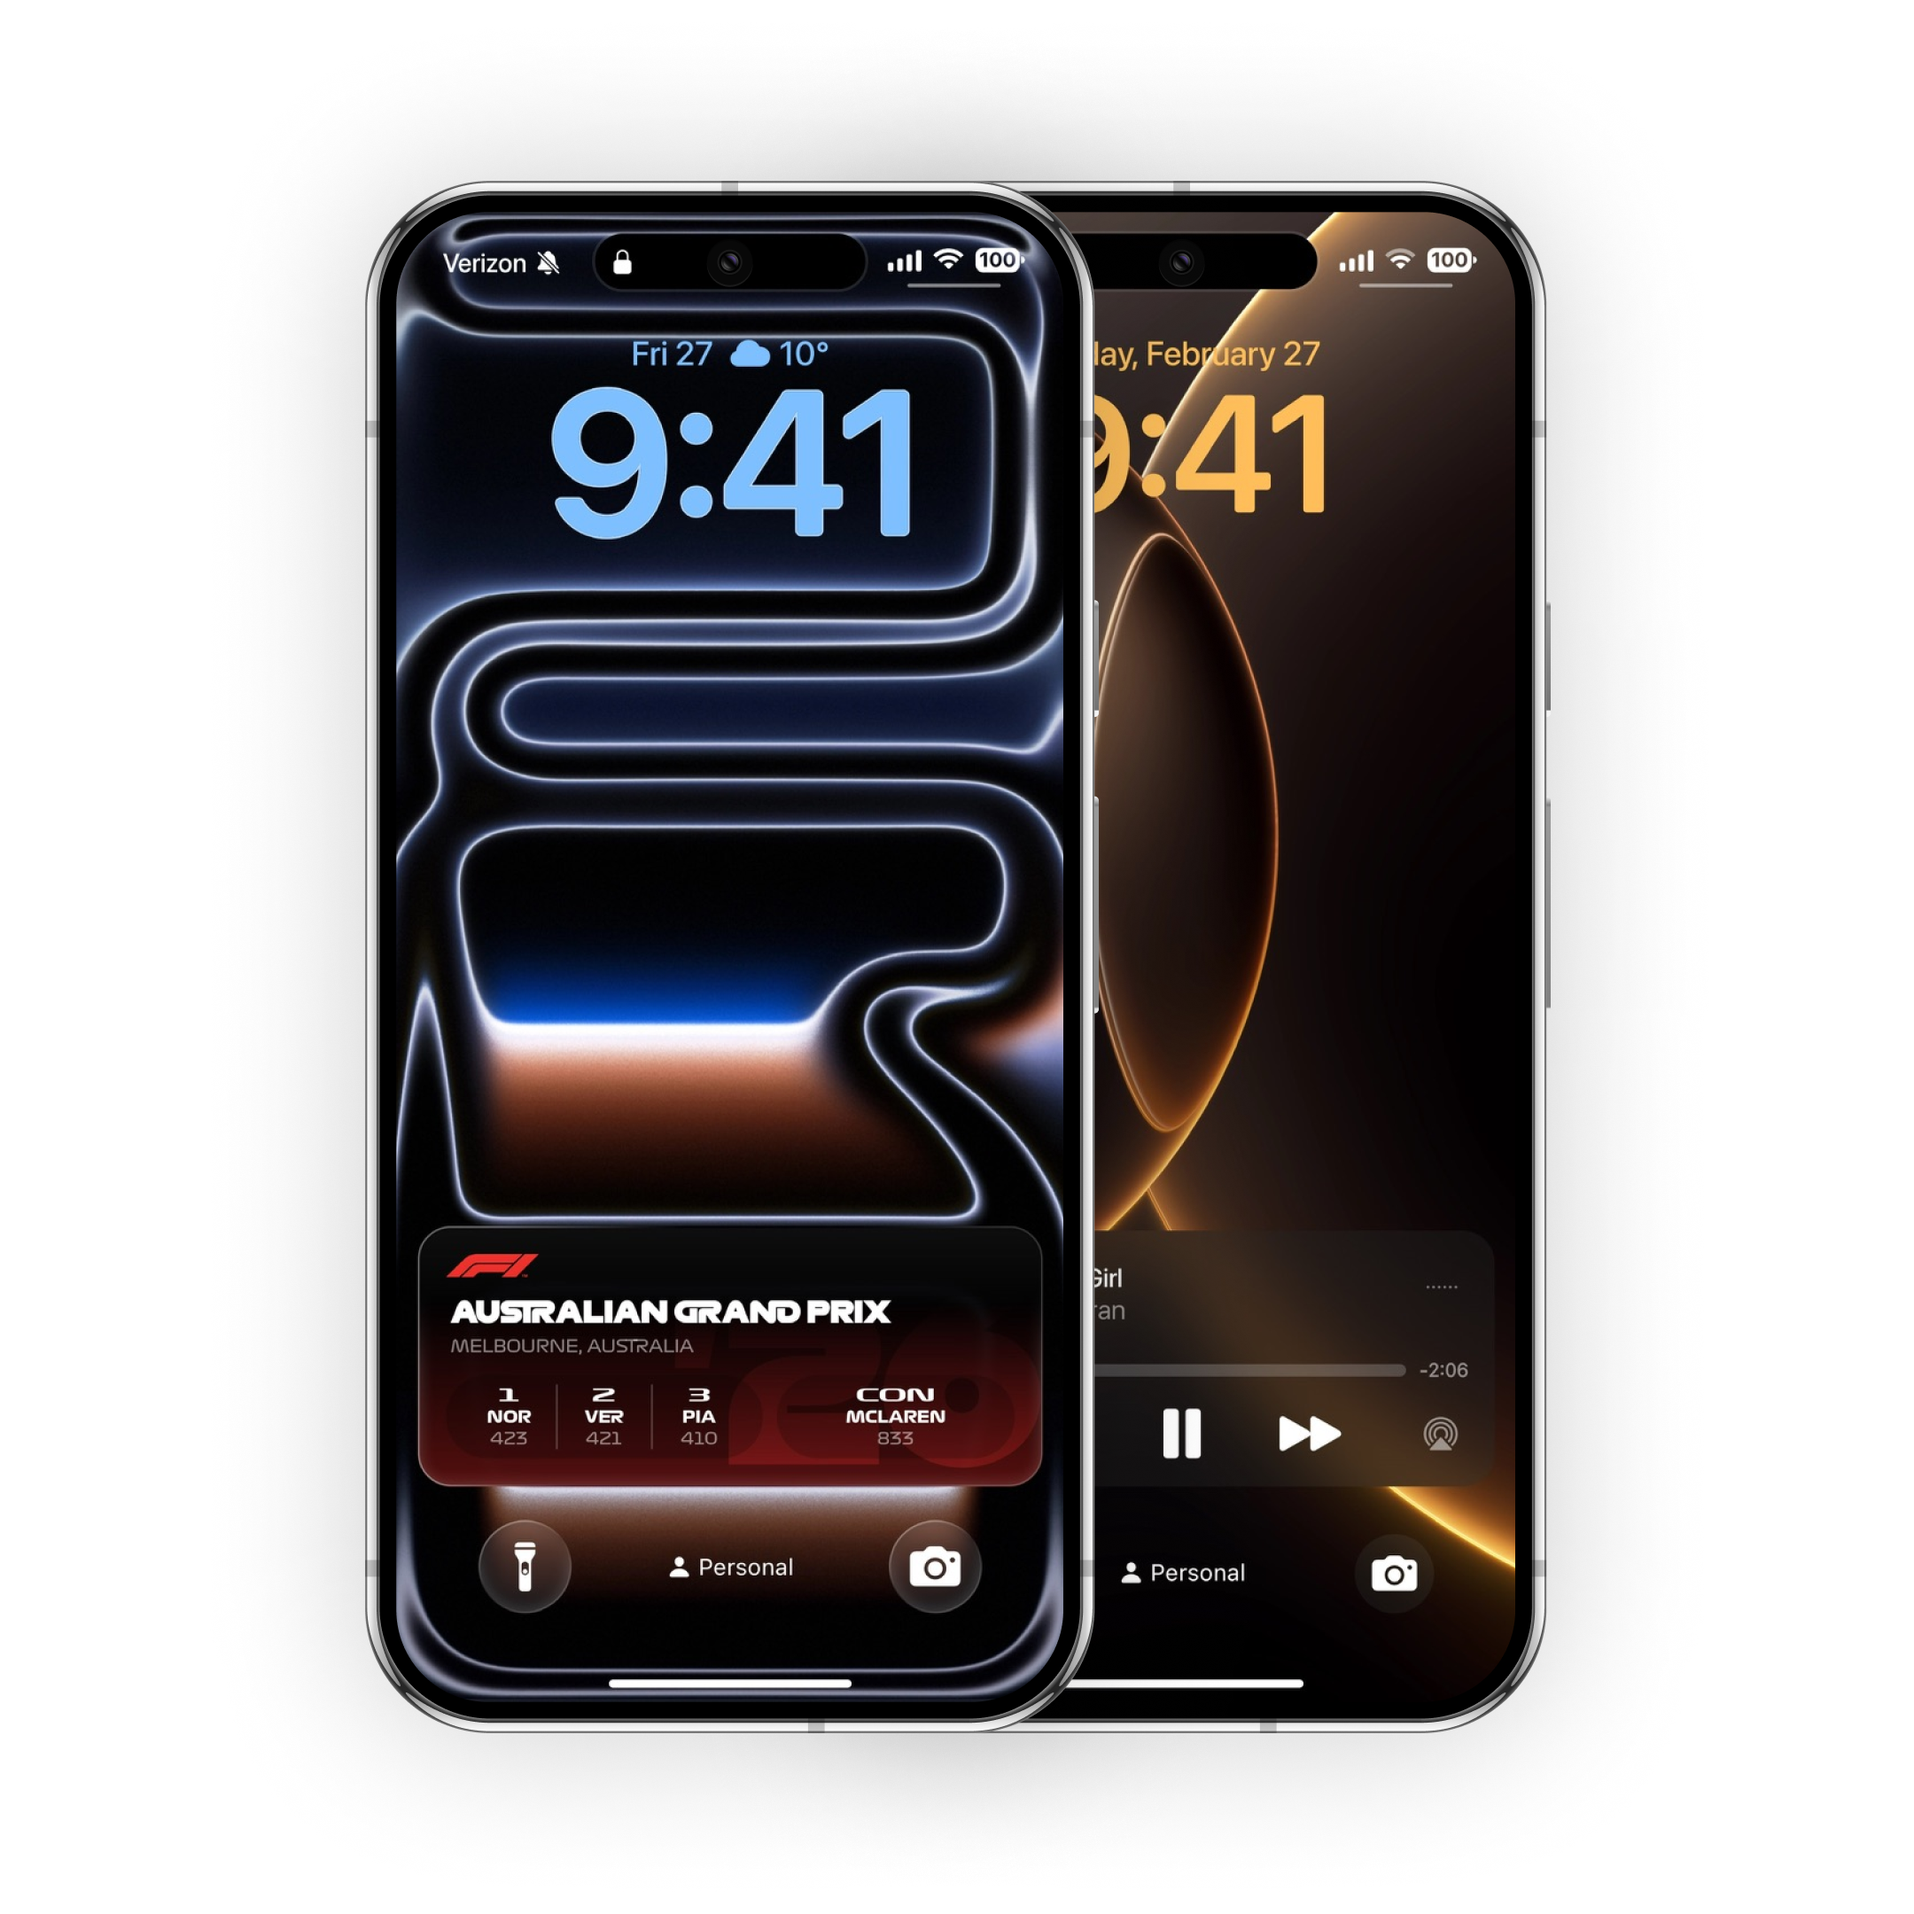
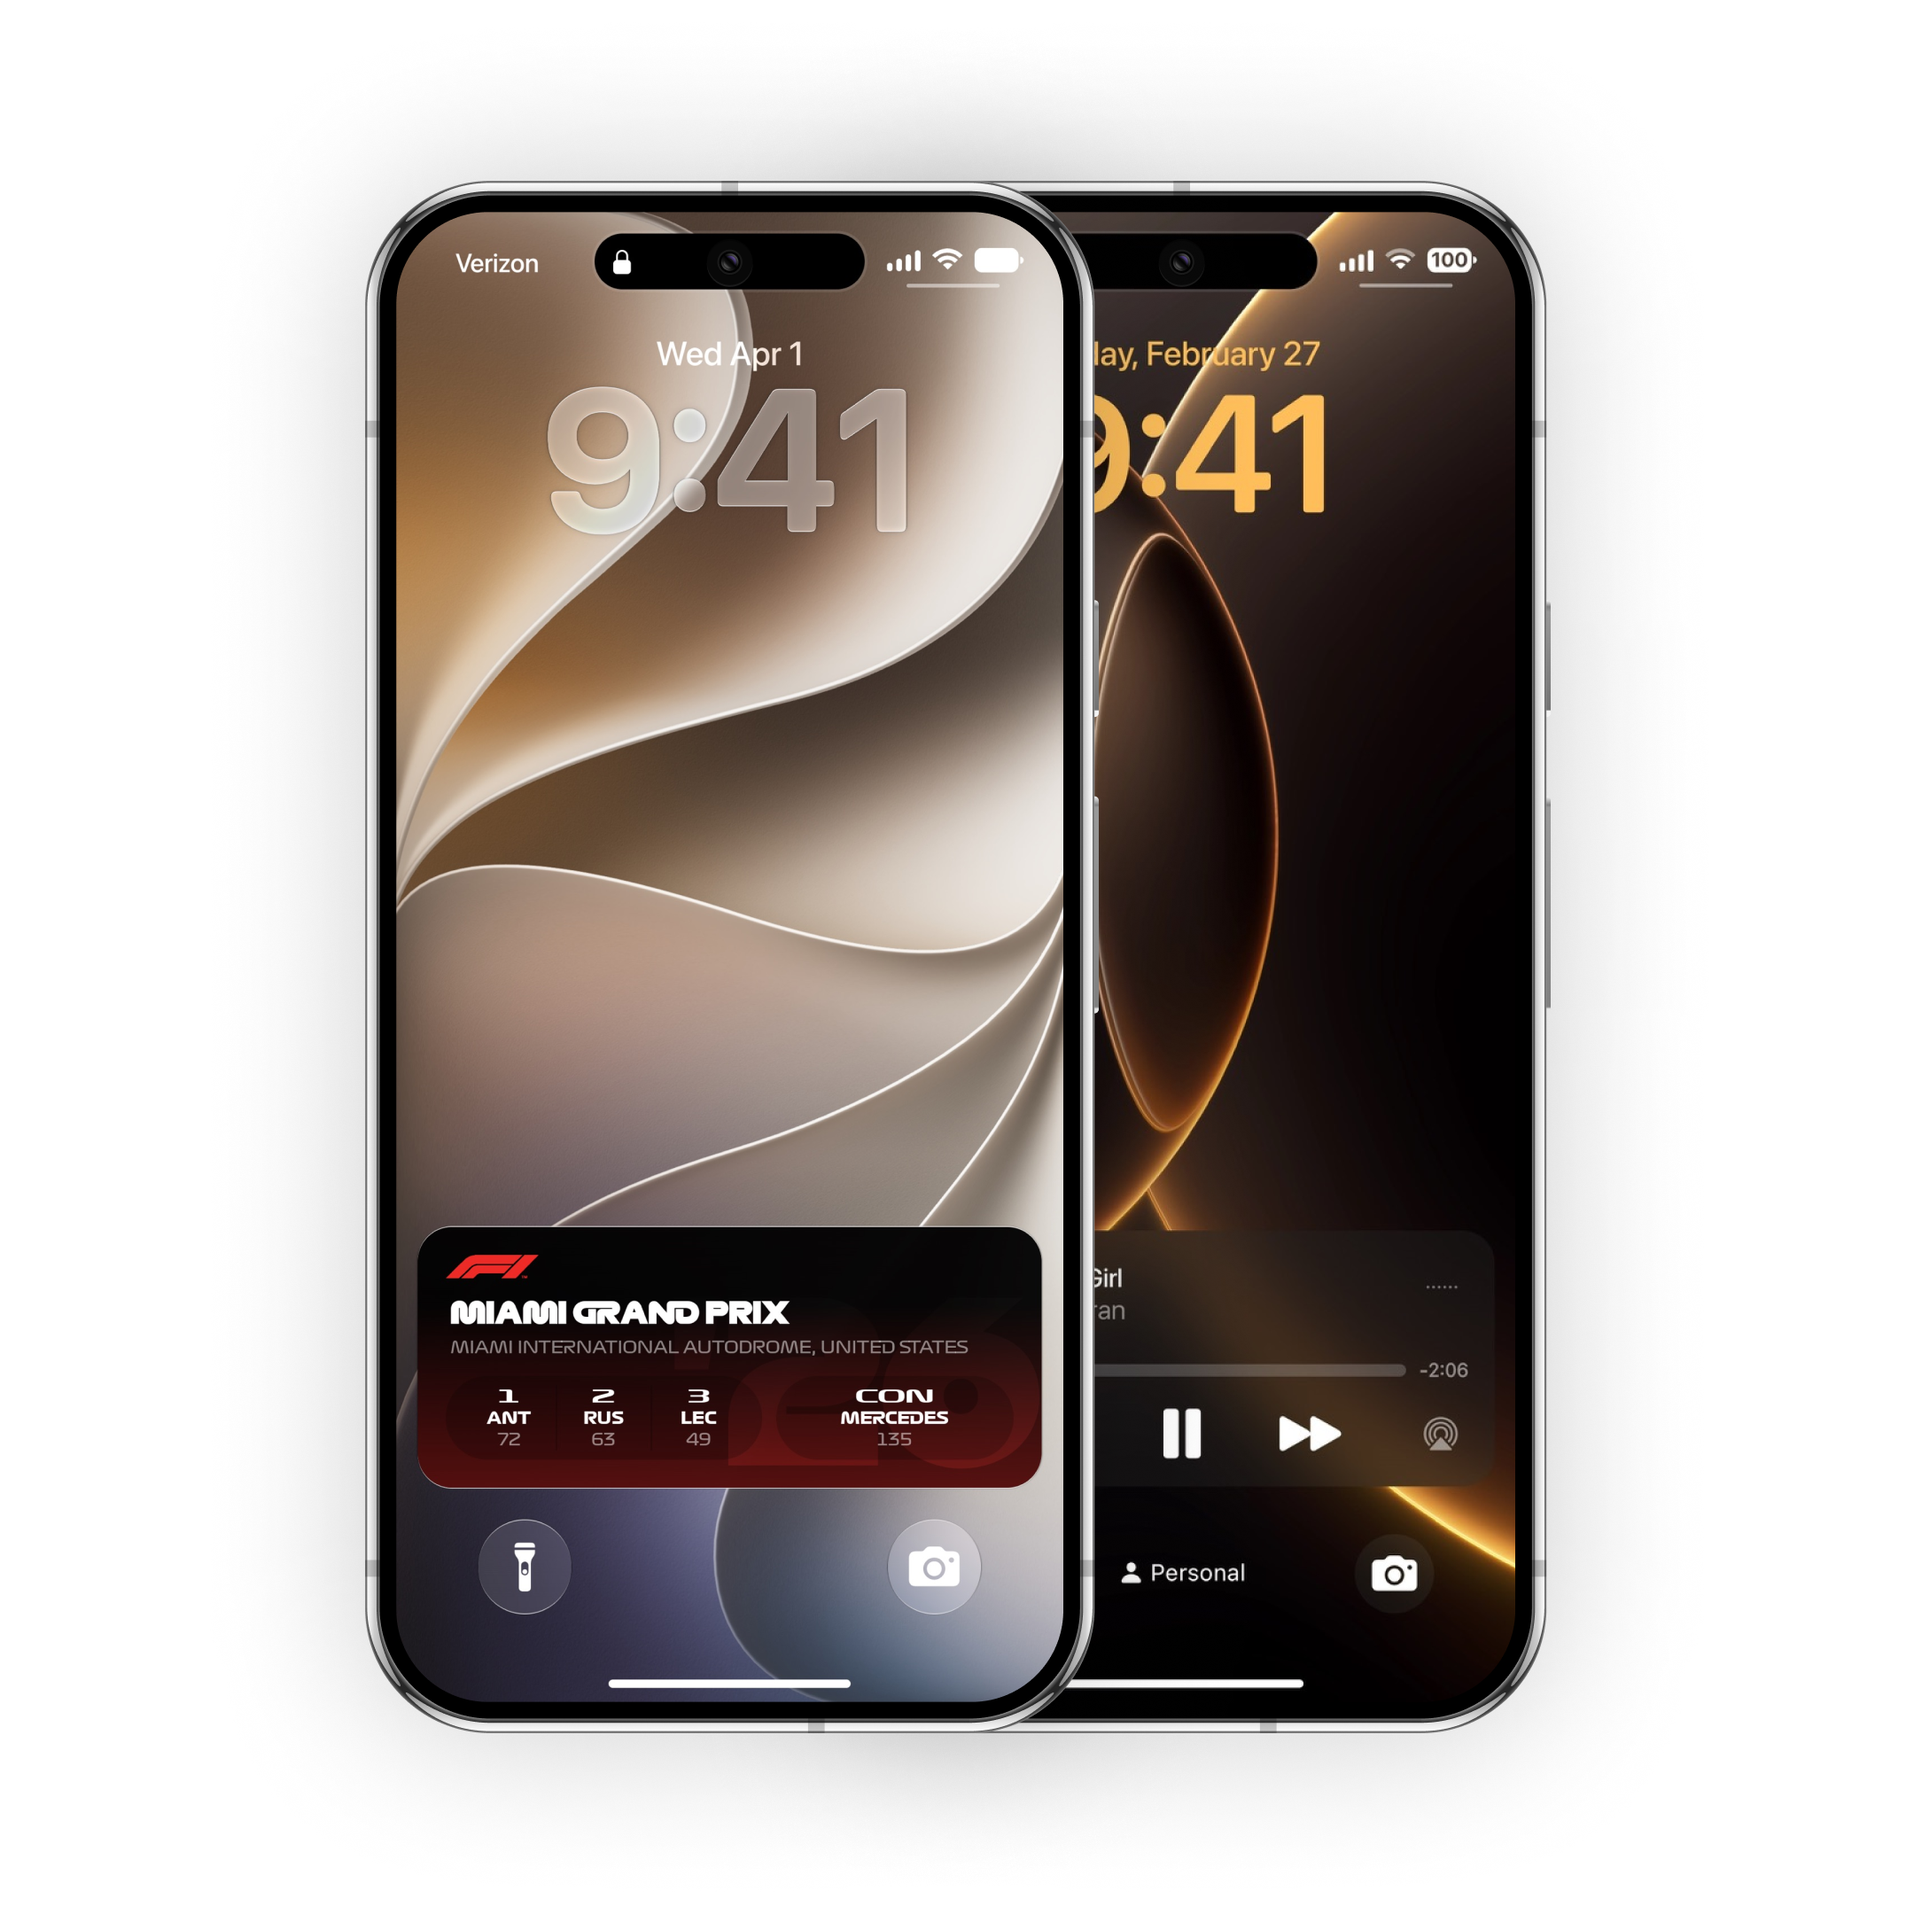
Website Update

Changed region(s): [[0.1861, 0.0931, 0.5583, 0.8995]]

diff --git a/docs/index.html b/docs/index.html
@@ -73,11 +73,12 @@
       linear-gradient(180deg, rgba(0,0,0,.55) 0%, rgba(0,0,0,1) 78%);
   }
 
-  .page-home .section--istage-26 .section-bg{
+  .page-home .section--istage-27 .section-bg{
     background:
-      radial-gradient(90% 110% at 22% 35%, rgba(0,229,255,.12) 0%, rgba(0,229,255,0) 62%),
-      radial-gradient(90% 110% at 78% 40%, rgba(155,120,255,.10) 0%, rgba(155,120,255,0) 62%),
-      linear-gradient(180deg, rgba(0,0,0,.65) 0%, rgba(0,0,0,1) 82%);
+      radial-gradient(90% 110% at 22% 36%, rgba(188,133,82,.18) 0%, rgba(188,133,82,0) 62%),
+      radial-gradient(86% 108% at 78% 38%, rgba(229,218,204,.14) 0%, rgba(229,218,204,0) 60%),
+      radial-gradient(78% 92% at 72% 100%, rgba(105,118,148,.08) 0%, rgba(105,118,148,0) 64%),
+      linear-gradient(180deg, rgba(12,9,7,.68) 0%, rgba(0,0,0,1) 84%);
   }
 
   .page-home .section--istage-18 .section-bg{
@@ -264,26 +265,26 @@
           </div>
 
           <p class="event-copy text-aurora reveal">
-            Introducing the next generation of iStage. Explore the all-new iStage 26 with dynamic, fluid Liquid Glass design, smoother motion, and pro-grade controls. Discover iStage 18 with a classic, familiar frosted design, finely tuned for a wider range of devices.
+            Introducing the next generation of iStage. Explore the all-new iStage 27 with more refined Liquid Glass design, smoother motion, and pro-grade controls. Discover iStage 18 featuring a familiar frosted aesthetic, tuned for broad device compatibility.
           </p>
         </div>
       </div>
     </section>
 
-    <section class="section section--black section--istage-26">
+    <section class="section section--black section--istage-27">
       <div class="section-bg" aria-hidden="true"></div>
 
       <div class="container">
-        <div class="hero hero-26">
+        <div class="hero hero-27">
           <div class="copy">
-            <h1 class="title reveal">iStage 26</h1>
-            <p class="subtitle reveal">Refined Liquid Glass. Fluid animations.</p>
+            <h1 class="title reveal">iStage 27</h1>
+            <p class="subtitle reveal">Introducing the next generation of Liquid Glass.</p>
             <div class="cta">
-              <a class="btn btn-blue reveal" href="iStage-26/">Learn more</a>
-              <a class="btn btn-outline reveal" href="releases/#v=26">Download</a>
+              <a class="btn btn-blue reveal" href="iStage-27/">Learn more</a>
+              <a class="btn btn-outline reveal" href="releases/#v=27">Download</a>
             </div>
           </div>
-          <div class="media media-26" role="img" aria-label="iStage 26 hero"></div>
+          <div class="media media-27" role="img" aria-label="iStage 27 hero"></div>
         </div>
       </div>
     </section>
@@ -295,7 +296,7 @@
         <div class="hero hero-18">
           <div class="copy">
             <h2 class="title reveal">iStage 18</h2>
-            <p class="subtitle reveal">Classic frosted aesthetic. Solid baseline.</p>
+            <p class="subtitle reveal">Timeless frosted aesthetic.</p>
             <div class="cta">
               <a class="btn btn-blue reveal" href="iStage-18/">Learn more</a>
               <a class="btn btn-outline reveal" href="releases/#v=18">Download</a>

diff --git a/docs/iStage-27/index.html b/docs/iStage-27/index.html
@@ -1,0 +1,53 @@
+<!DOCTYPE html>
+<html lang='en'>
+<head>
+  <meta charset="utf-8">
+  <meta name="viewport" content="width=device-width, initial-scale=1, viewport-fit=cover">
+  <title>iStage</title>
+  
+  <link href="https://fonts.googleapis.com/css2?family=Inter:wght@400;500;600;700&display=swap" rel="stylesheet">
+  <link rel="stylesheet" href="../assets/css/style.css">
+  
+  <!-- Icons / PWA -->
+  <link rel="icon" type="image/svg+xml" href="/iStage/favicon.svg">
+  <link rel="icon" sizes="192x192" href="/iStage/android-chrome-192x192.png">
+  <link rel="icon" sizes="512x512" href="/iStage/android-chrome-512x512.png">
+  <link rel="apple-touch-icon" href="/iStage/apple-touch-icon.png">
+  <link rel="mask-icon" href="/iStage/pinned-tab.svg" color="#0f1116">
+
+  <!-- Address bar color -->
+  <meta name="theme-color" content="#f5f5f7" media="(prefers-color-scheme: light)">
+  <meta name="theme-color" content="#000000" media="(prefers-color-scheme: dark)">
+  
+  <!-- Open Graph / Twitter thumbnail -->
+  <meta property="og:type" content="website">
+  <meta property="og:site_name" content="iStage">
+  <meta property="og:title" content="iStage 27 — iStage">
+  <meta property="og:description" content="Android. Reimagined.">
+  <meta property="og:url" content="https://modelized.github.io/iStage/iStage-27/">
+  <meta property="og:image" content="https://modelized.github.io/iStage/assets/img/og.jpg">
+  <meta property="og:image:width" content="1200">
+  <meta property="og:image:height" content="630">
+  <meta name="twitter:card" content="summary_large_image">
+  <meta name="twitter:title" content="iStage 27 — iStage">
+  <meta name="twitter:description" content="Android. Reimagined.">
+  <meta name="twitter:image" content="https://modelized.github.io/iStage/assets/img/og.jpg">
+
+  <script>document.documentElement.classList.add('js');</script>
+</head>
+
+<body class="page-iStage-27" data-base="..">
+  <div class="nav-backdrop" aria-hidden="true"></div>
+
+  <div id="nav-slot"></div>
+
+  <main class="section section--first">
+    <div class="container">
+      <!-- Content -->
+    </div>
+  </main>
+
+  <div id="footer-slot"></div>
+  <script src="../assets/js/shell.js" defer></script>
+</body>
+</html>

diff --git a/docs/assets/partials/nav.html b/docs/assets/partials/nav.html
@@ -6,7 +6,7 @@
       </a>
       <ul class="menu desktop">
         <li><a href="/iStage/">Home</a></li>
-        <li><a href="/iStage/iStage-26/">iStage 26</a></li>
+        <li><a href="/iStage/iStage-27/">iStage 27</a></li>
         <li><a href="/iStage/iStage-18/">iStage 18</a></li>
         <li><a href="/iStage/compare/">Compare</a></li>
         <li><a href="/iStage/releases/">Releases</a></li>
@@ -24,7 +24,7 @@
     <div class="container sheet" id="mobile-sheet" aria-hidden="true">
       <div class="sheet-content">
         <ul class="mobile-menu">
-            <li style="--menu-delay: .02s;"><a href="/iStage/iStage-26/">iStage 26</a></li>
+            <li style="--menu-delay: .02s;"><a href="/iStage/iStage-27/">iStage 27</a></li>
             <li style="--menu-delay: .06s;"><a href="/iStage/iStage-18/">iStage 18</a></li>
             <li style="--menu-delay: .10s;"><a href="/iStage/compare/">Compare</a></li>
             <li style="--menu-delay: .14s;"><a href="/iStage/releases/">Releases</a></li>

diff --git a/docs/assets/css/style.css b/docs/assets/css/style.css
@@ -583,10 +583,10 @@ body{
   .media{aspect-ratio:16/9; width:92%; margin:0 auto}
 }
 
-.media-26{
+.media-27{
   background-image:
-    url("../img/hero-iStage-26-mobile.jpg"),
-    url("../img/hero-iStage-26-mobile.png");
+    url("../img/hero-iStage-27-mobile.jpg"),
+    url("../img/hero-iStage-27-mobile.png");
 }
 .media-18{
   background-image:
@@ -594,10 +594,10 @@ body{
     url("../img/hero-iStage-18-mobile.png");
 }
 @media (min-width:900px){
-  .media-26{
+  .media-27{
     background-image:
-      url("../img/hero-iStage-26-desktop.jpg"),
-      url("../img/hero-iStage-26-desktop.png");
+      url("../img/hero-iStage-27-desktop.jpg"),
+      url("../img/hero-iStage-27-desktop.png");
   }
   .media-18{
     background-image:
